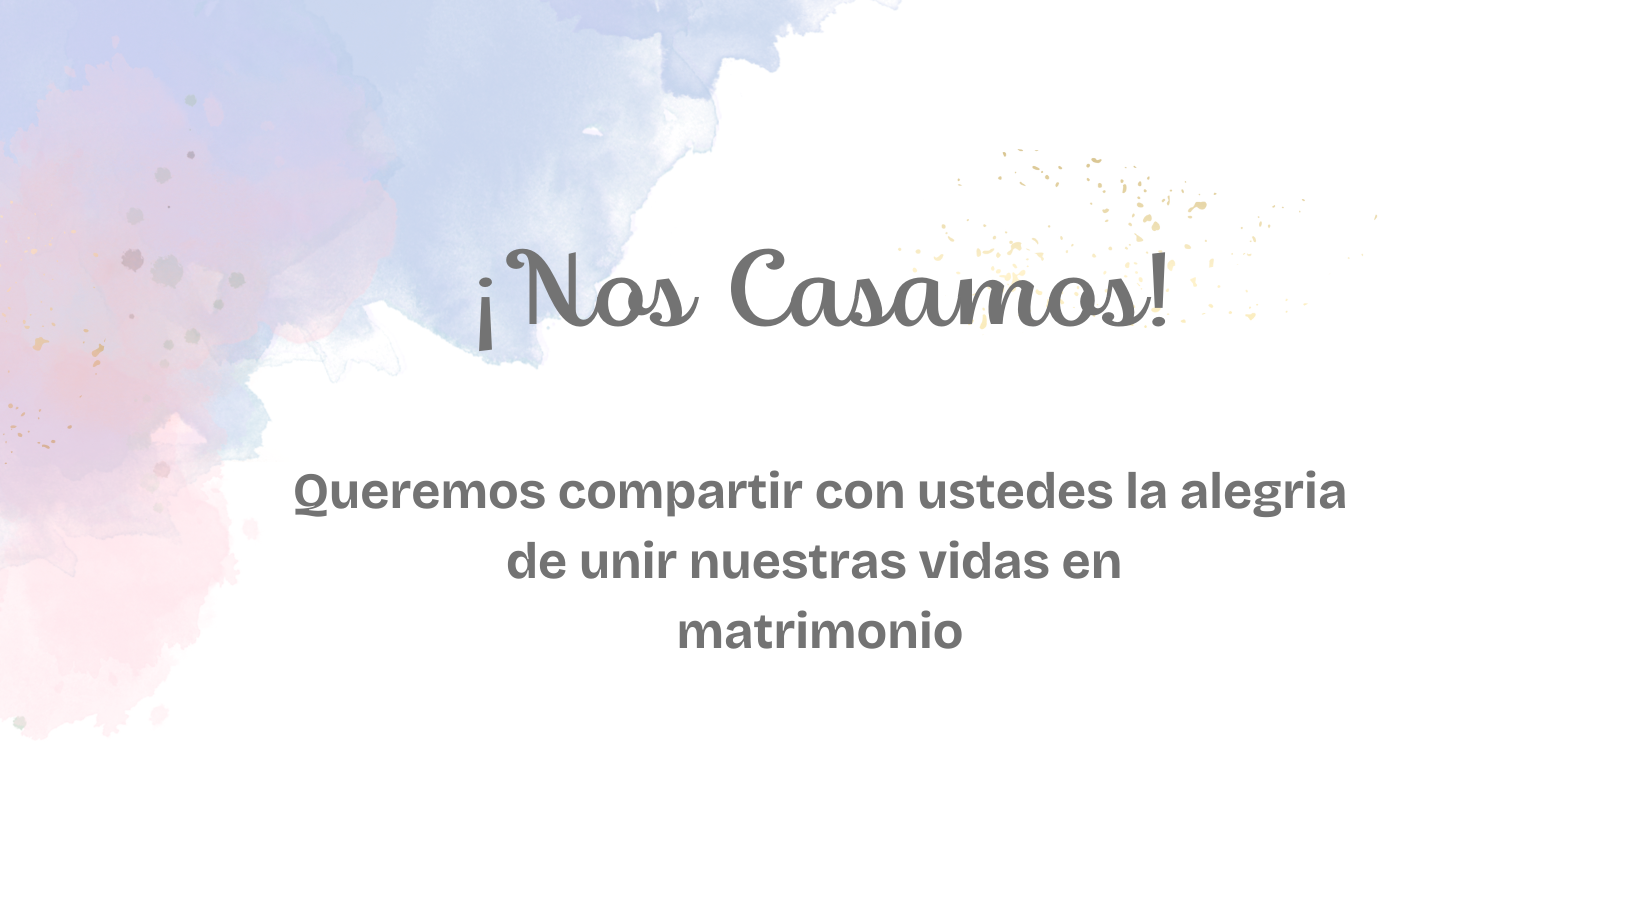
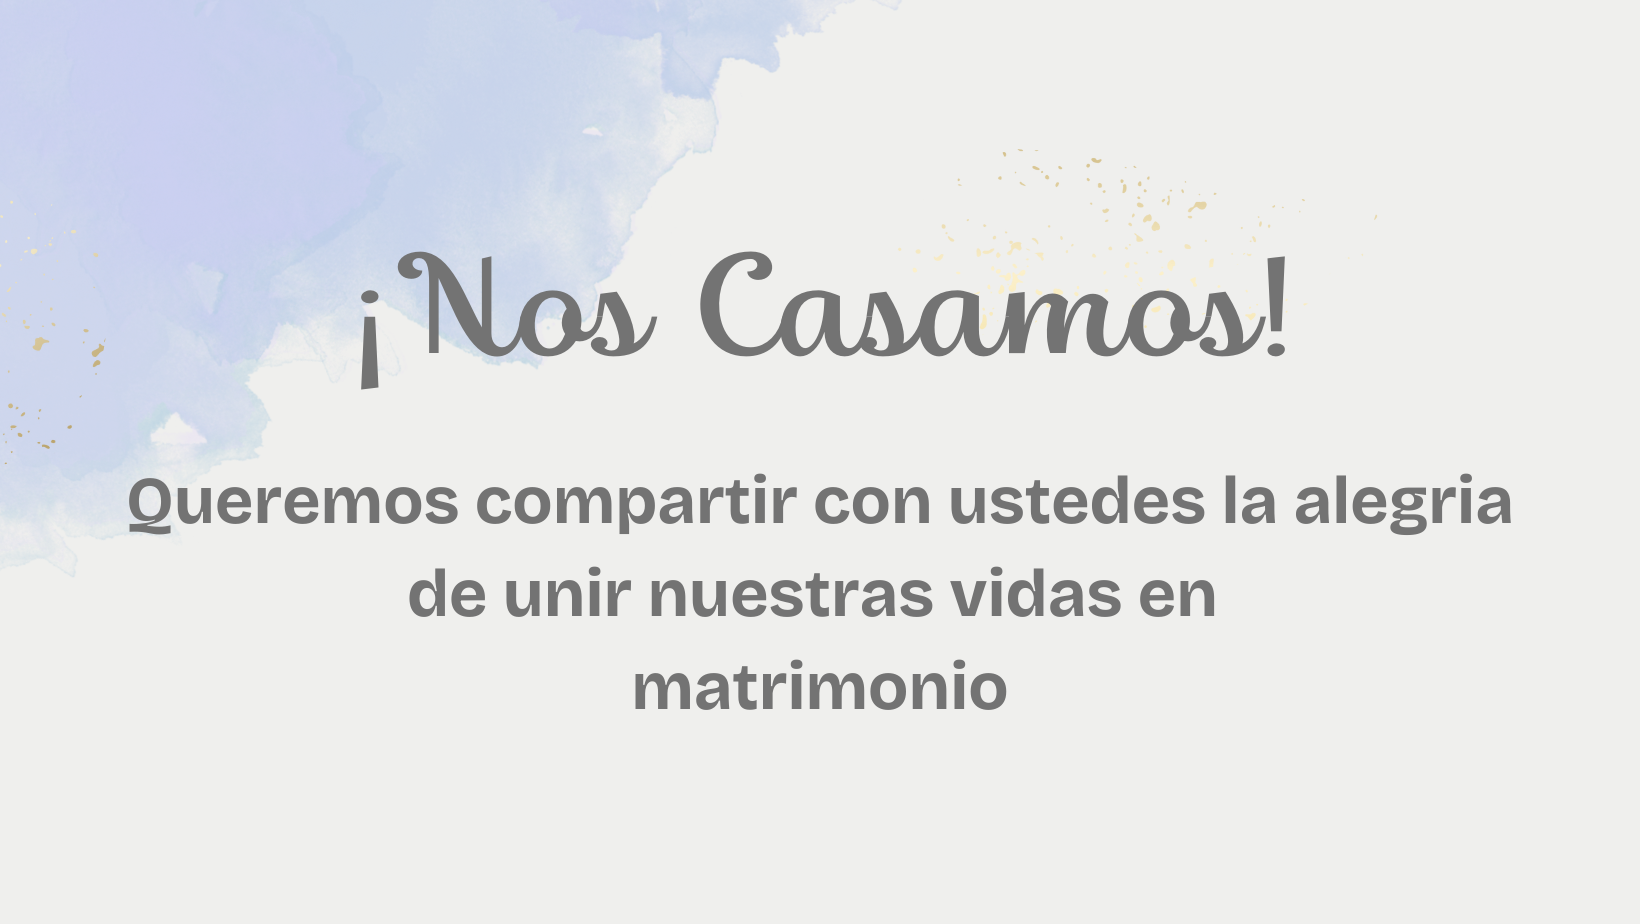
cambios color de fondo pagina principal

diff --git a/wedding.html b/wedding.html
@@ -17,7 +17,7 @@
     
       <header>
         <div>
-        <img class="inicio" src="images/inicio.png" alt="Nos casamos">
+        <img class="inicio" src="images/inicio2.png" alt="Nos casamos">
         </div>
         <div >
             <audio src="images/Taylor Swift - Love Story_8xg3vE8Ie_E.mp3" loop autoplay controls></audio>
@@ -92,13 +92,13 @@
         <h4>Sergio Rubén Arriaga Rodriguez</h4>
         <h4>Maria Isabel Perales Aguilar</h4>
         
-        <img class="rubenyyatzil" src="images/yatzilyruben.jpeg" alt="yatzil&Ruben">
+        <img class="rubenyyatzil" src="images/YatzilyRubén2.png" alt="yatzil&Ruben">
     </section>
     <section>
         <h1>Recepcion</h1>
         <h4>Fecha y Hora</h4>
         <div>
-        <img class="noshadown" src="images/fechayhora2.png" alt="fecha y hora">
+        <img class="noshadown" src="images/fechayhora3.png" alt="fecha y hora">
         </div>
     </section>
 
@@ -136,7 +136,7 @@
             <section>
             <h1>Codigo de vestimenta</h1>
             <div>
-            <img class="icons" src="images/codigovestimenta7.png" alt="codigo de vestimenta">
+            <img class="icons" src="images/codigovestimenta9.png" alt="codigo de vestimenta">
             </div>
             <p>Gala</p>
             
@@ -144,7 +144,7 @@
           <section>
             <h1>Itinerario</h1>
             <div>
-           <img class="itinerario" src="images/itinerario.png" alt="itinerario">
+           <img class="itinerario" src="images/itinerario3.png" alt="itinerario">
            </div>
            <h4>"Mamá y Papá merecen una noche libre" </h4>
             <h4>RESPETUOSAMENTE</h4>

diff --git a/style.css b/style.css
@@ -8,6 +8,7 @@ body{
     align-items: center;
     justify-content: center;
     padding:0%;
+    background-color: #EFEFED;
     
 
 }
@@ -20,7 +21,7 @@ h1{
 }
 
 #regalo{
-    background-image: url(images/mancha.png);
+    background-image: url(images/mancha2.png);
 }
 
 p{
